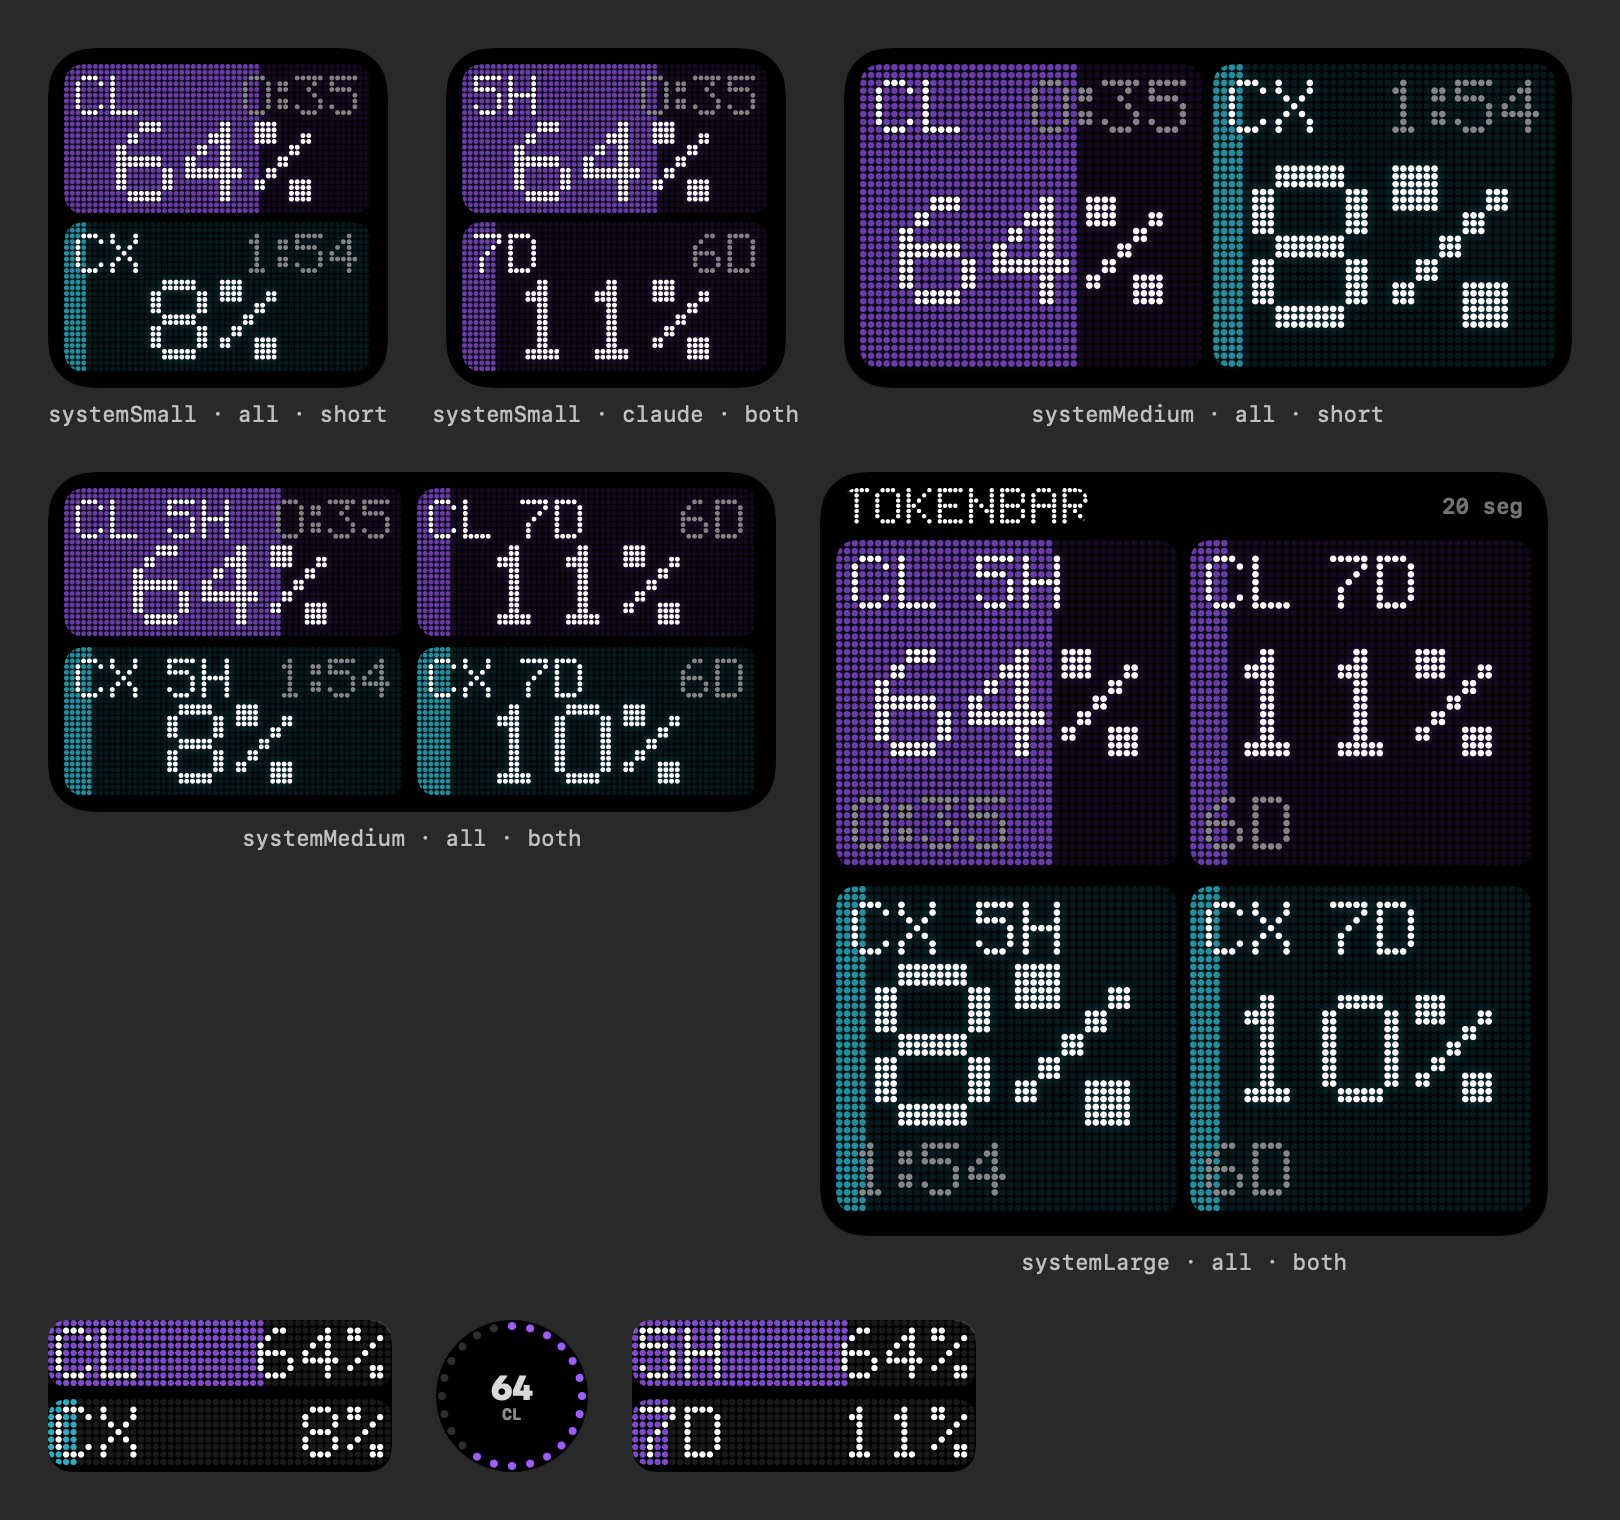
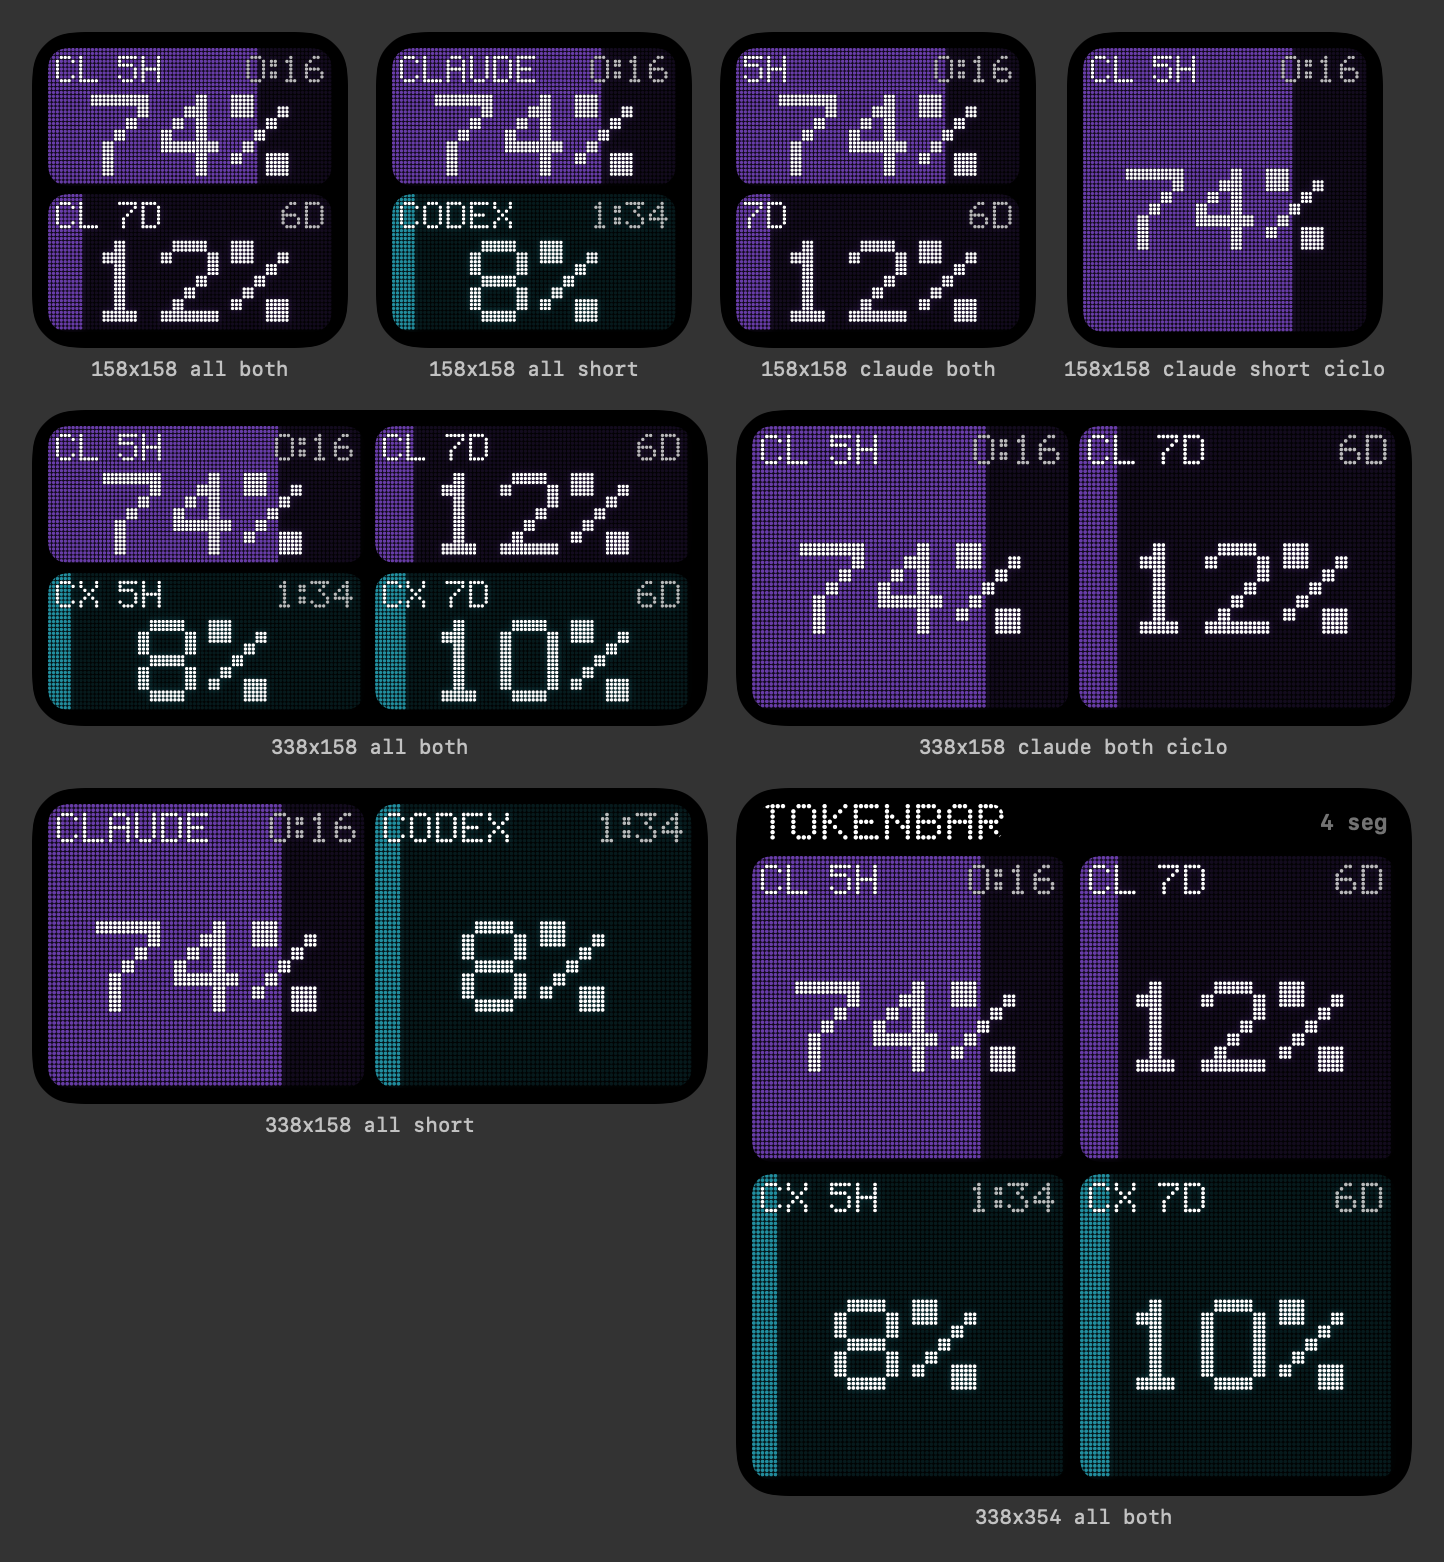
Widgets: grade fixa sem sobreposição (mesma escala em todos os painéis, testado com 100%); 'Uma por vez' troca ao tocar no widget

diff --git a/Shared/LEDPanel.swift b/Shared/LEDPanel.swift
@@ -8,9 +8,13 @@ struct LEDPanel: View {
     var providerID: String
     var now: Date
     var theme: Theme
-    /// Mínimo de colunas (cabe "CLAUDE" + folga); o ponto sai do espaço disponível.
+    /// Mantidos por compatibilidade com quem já chama assim.
     var minCols: Int = 44
     var maxScale: Int = 3
+    /// Escala do número; se nil, o painel escolhe sozinho. Widgets passam a mesma para todos os painéis.
+    var scale: Int? = nil
+    /// Título mais longo do widget: garante que título e tempo caibam em todos os painéis.
+    var longestTitle: String? = nil
 
     var body: some View {
         let p = window?.used(at: now) ?? 0
@@ -18,10 +22,12 @@ struct LEDPanel: View {
         GeometryReader { geo in
             let w = geo.size.width.isFinite ? geo.size.width : 0
             let h = geo.size.height.isFinite ? geo.size.height : 0
-            // Ponto pela altura (~26 linhas), mas nunca com menos colunas que o mínimo.
-            let dot = max(1, min(h / 26, w / CGFloat(minCols)))
-            let cols = max(minCols, Int(w / dot)), rows = max(12, Int(h / dot))
-            DotCanvas(bitmap: bitmap(p, cols: min(cols, 300), rows: min(rows, 200)), dot: dot,
+            let t = longestTitle ?? title
+            let k = scale ?? LEDPanel.bestScale(width: w, height: h, longestTitle: t, maxScale: maxScale)
+            let dot = LEDPanel.dot(width: w, height: h, k: k, longestTitle: t)
+            let rows = max(LEDPanel.rows(for: k), Int(h / dot))
+            let cols = max(10, Int(w / dot))
+            DotCanvas(bitmap: bitmap(p, k: k, cols: min(cols, 300), rows: min(rows, 200)), dot: dot,
                       textColor: theme.text.color, fieldColor: level.opacity(0.62), offColor: level.opacity(0.10),
                       round: theme.roundDots)
                 .shadow(color: level.opacity(0.3 * theme.glow), radius: 2 * theme.glow)
@@ -31,54 +37,42 @@ struct LEDPanel: View {
         .accessibilityLabel("\(title) \(UsageStyle.percent(p))")
     }
 
-    private func bitmap(_ p: Double, cols: Int, rows: Int) -> DotBitmap {
+    // Grade fixa: margem 2 · título 7 · vão 3 · número 7k · margem 2.
+    static func rows(for k: Int) -> Int { 2 + 7 + 3 + 7 * k + 2 }
+
+    /// Colunas que a escala k precisa: "100%" e "TÍTULO  0:00" inteiros.
+    static func colsNeeded(k: Int, longestTitle: String) -> Int {
+        max(DotFont.width("100%", scale: k) + 4, 2 + DotFont.width(longestTitle) + 6 + DotFont.width("0:00") + 2)
+    }
+
+    /// O ponto cabe na altura (grade da escala k) e na largura (colunas necessárias).
+    static func dot(width w: CGFloat, height h: CGFloat, k: Int, longestTitle: String) -> CGFloat {
+        max(1, min(h / CGFloat(rows(for: k)), w / CGFloat(colsNeeded(k: k, longestTitle: longestTitle))))
+    }
+
+    /// Maior escala cujo ponto ainda fica visível (o número cresce o quanto der sem apertar nada).
+    static func bestScale(width w: CGFloat, height h: CGFloat, longestTitle: String, maxScale: Int = 3) -> Int {
+        guard w > 0, h > 0 else { return 1 }
+        for k in stride(from: maxScale, through: 2, by: -1)
+        where dot(width: w, height: h, k: k, longestTitle: longestTitle) >= 1.9 { return k }
+        return 1
+    }
+
+    private func bitmap(_ p: Double, k: Int, cols: Int, rows: Int) -> DotBitmap {
         var b = DotBitmap(cols: cols, rows: rows)
         let filled = Int((min(max(p, 0), 100) / 100 * Double(cols)).rounded())
         for x in 0..<filled { for y in 0..<rows { b.set(x, y, 1) } }
 
-        guard window != nil else {
-            b.draw(title, x: 2, y: 2)
-            b.drawCentered("--", y: max(10, rows / 2 - 3))
-            return b
-        }
-        let t = timeText
-        let big = "\(min(Int(p.rounded()), 999))%"
-        func w(_ s: String, _ k: Int = 1) -> Int { DotFont.width(s, scale: k) }
-        func best(top: Int, bottom: Int) -> Int {
-            var k = maxScale
-            while k > 0 && (w(big, k) > cols - 4 || top + 7 * k > bottom) { k -= 1 }
-            return k
-        }
-        func drawBig(_ k: Int, top: Int, bottom: Int) {
-            let y = top + max(0, (bottom - top - 7 * k) / 2)
-            // Sempre centrada no painel: as duas faixas ficam alinhadas.
-            let x = (cols - w(big, k)) / 2
-            b.draw(big, x: x, y: y, scale: k)
-        }
-
-        // 1) Título e tempo na linha de cima; % embaixo, o maior possível.
-        for name in [title, LEDPanel.abbreviate(title)] where 2 + w(name) + 6 + w(t) <= cols - 2 {
-            let k = best(top: 10, bottom: rows - 1)
-            if k >= 2 || (k == 1 && name == LEDPanel.abbreviate(title)) {
-                b.draw(name, x: 2, y: 2)
-                b.draw(t, x: cols - 2 - w(t), y: 2, value: 3)
-                drawBig(k, top: 10, bottom: rows - 1)
-                return b
-            }
-        }
-        // 2) Título em cima, tempo embaixo, % no meio.
-        let k2 = best(top: 10, bottom: rows - 10)
-        if k2 >= 1 {
-            b.draw(title, x: 2, y: 2)
-            b.draw(t, x: 2, y: rows - 9, value: 3)
-            drawBig(k2, top: 10, bottom: rows - 10)
-            return b
-        }
-        // 3) Apertado: nome curto e % na mesma linha, tempo embaixo se couber.
-        let name = LEDPanel.abbreviate(title)
+        // Título à esquerda; tempo (mais apagado) à direita na mesma linha, se couber.
+        let name = 2 + DotFont.width(title) + 6 + DotFont.width(timeText) + 2 <= cols ? title : LEDPanel.abbreviate(title)
         b.draw(name, x: 2, y: 2)
-        b.draw(big, x: cols - 2 - w(big), y: 2)
-        if rows >= 18 { b.draw(t, x: 2, y: 11, value: 3) }
+        if window != nil, 2 + DotFont.width(name) + 6 + DotFont.width(timeText) + 2 <= cols {
+            b.draw(timeText, x: cols - 2 - DotFont.width(timeText), y: 2, value: 3)
+        }
+        let big = window == nil ? "--" : "\(min(Int(p.rounded()), 999))%"
+        // Número centrado no espaço abaixo do título.
+        let y = 12 + max(0, (rows - 2 - 12 - 7 * k) / 2)
+        b.draw(big, x: (cols - DotFont.width(big, scale: k)) / 2, y: y, scale: k)
         return b
     }
 
@@ -106,7 +100,7 @@ enum WidgetItems {
     }
 
     /// agent: "all" | "claude" | "codex"; window: "short" | "long" | "both".
-    static func make(_ s: UsageSnapshot, agent: String, window: String) -> [Item] {
+    static func make(_ s: UsageSnapshot, agent: String, window: String, showName: Bool = false) -> [Item] {
         let ids = agent == "all" ? Prefs.allProviders : [agent]
         var out: [Item] = []
         for id in ids {
@@ -117,7 +111,8 @@ enum WidgetItems {
             for w in picked {
                 // Uma IA só: o título é a janela. Várias: o nome da IA (+ janela se mostrar as duas).
                 let title: String
-                if ids.count == 1 { title = w?.label.uppercased() ?? UsageStyle.shortName(id) }
+                if ids.count == 1 && showName { title = (id == "codex" ? "CX " : "CL ") + (w?.label.uppercased() ?? "") }
+                else if ids.count == 1 { title = w?.label.uppercased() ?? UsageStyle.shortName(id) }
                 else if window == "both" { title = (id == "codex" ? "CX " : "CL ") + (w?.label.uppercased() ?? "") }
                 else { title = UsageStyle.shortName(id) }
                 out.append(Item(key: "\(id)-\(w?.id ?? "none")", providerID: id, window: w, title: title))

diff --git a/Widget/WidgetViews.swift b/Widget/WidgetViews.swift
@@ -10,9 +10,10 @@ struct WidgetContent: View {
     var now: Date
     var theme: Theme
     var paired: Bool
+    var cycling = false
 
     var body: some View {
-        let items = WidgetItems.make(snapshot, agent: agent, window: window)
+        let items = WidgetItems.make(snapshot, agent: agent, window: window, showName: cycling)
         if snapshot.providers.isEmpty {
             EmptyUsage(paired: paired)
         } else {
@@ -44,12 +45,14 @@ struct WidgetContent: View {
         }
     }
 
-    /// Painéis em grade; cada um recebe a sua fatia exata da área.
+    /// Painéis em grade; cada um recebe a sua fatia exata da área e todos usam a mesma escala.
     private func grid(_ items: [WidgetItems.Item], columns: Int, cols: Int, gap: CGFloat) -> some View {
         GeometryReader { geo in
             let rows = Int((Double(items.count) / Double(columns)).rounded(.up))
             let w = (geo.size.width - gap * CGFloat(columns - 1)) / CGFloat(columns)
             let h = (geo.size.height - gap * CGFloat(max(rows - 1, 0))) / CGFloat(max(rows, 1))
+            let longest = items.map(\.title).max(by: { DotFont.width($0) < DotFont.width($1) }) ?? ""
+            let k = LEDPanel.bestScale(width: w, height: h, longestTitle: longest)
             VStack(spacing: gap) {
                 ForEach(0..<rows, id: \.self) { r in
                     HStack(spacing: gap) {
@@ -58,7 +61,7 @@ struct WidgetContent: View {
                             if i < items.count {
                                 let it = items[i]
                                 LEDPanel(window: it.window, title: it.title, providerID: it.providerID,
-                                         now: now, theme: theme)
+                                         now: now, theme: theme, scale: k, longestTitle: longest)
                                     .frame(width: w, height: h)
                                     .clipShape(RoundedRectangle(cornerRadius: 10, style: .continuous))
                             } else {

diff --git a/Widget/TokenBarWidgets.swift b/Widget/TokenBarWidgets.swift
@@ -122,24 +122,25 @@ struct EntryView: View {
     var entry: UsageEntry
 
     var body: some View {
-        WidgetContent(family: family, snapshot: entry.snapshot, agent: entry.agent, window: entry.window,
-                      now: entry.date, theme: Prefs.theme, paired: entry.paired)
-            .padding(isSystem ? 8 : 0)
-            .overlay(alignment: .topTrailing) { if entry.cycling && isSystem { nextKey } }
+        cycleWrap(
+            WidgetContent(family: family, snapshot: entry.snapshot, agent: entry.agent, window: entry.window,
+                          now: entry.date, theme: Prefs.theme, paired: entry.paired, cycling: entry.cycling)
+                .padding(isSystem ? 8 : 0)
+        )
             .containerBackground(for: .widget) { Color.black }
             .widgetURL(URL(string: "\(TB.urlScheme)://open"))
     }
 
-    /// Tecla de LED "›" no canto: troca para a próxima IA sem abrir o app.
-    @ViewBuilder private var nextKey: some View {
+    /// "Uma por vez": o widget inteiro é o botão — tocar em qualquer lugar passa para a próxima IA.
+    @ViewBuilder private func cycleWrap<V: View>(_ v: V) -> some View {
         #if os(watchOS)
-        EmptyView()
+        v
         #else
-        Button(intent: NextAgentIntent()) {
-            DotKeyFace(text: ">", on: true, color: Prefs.theme.base(entry.agent), dot: 1.8, round: Prefs.theme.roundDots)
+        if entry.cycling && isSystem {
+            Button(intent: NextAgentIntent()) { v }.buttonStyle(.plain)
+        } else {
+            v
         }
-        .buttonStyle(.plain)
-        .padding(6)
         #endif
     }
 

diff --git a/Shared/DotMatrix.swift b/Shared/DotMatrix.swift
@@ -120,7 +120,7 @@ struct DotCanvas: View {
                 for x in 0..<bitmap.cols {
                     let v = bitmap.get(x, y)
                     let rect = CGRect(x: CGFloat(x) * dot, y: CGFloat(y) * dot, width: size, height: size)
-                    let color: Color = v == 2 ? textColor : v == 3 ? textColor.opacity(0.5) : v == 1 ? fieldColor : offColor
+                    let color: Color = v == 2 ? textColor : v == 3 ? textColor.opacity(0.72) : v == 1 ? fieldColor : offColor
                     let path = round ? Path(ellipseIn: rect) : Path(roundedRect: rect, cornerRadius: size * 0.22)
                     ctx.fill(path, with: .color(color))
                 }

diff --git a/README.md b/README.md
@@ -23,7 +23,7 @@ num display de LED no Mac, no iPhone e no Apple Watch.
 - **Personalização:** cor de cada IA, do texto e do tempo, pontos redondos ou quadrados, brilho e vermelho perto do limite.
 - **O fundo enche conforme o gasto:** 23% acende 23% do display.
 - **Avisos:** notificação (no iPhone e espelhada no relógio) ao passar de **80%** e **95%** de uma janela, e quando ela **reseta**. O iPhone atualiza em segundo plano para avisar mesmo com o app fechado (o iOS decide a frequência, em geral a cada 15–60 min).
-- **Widgets:** um widget só, configurável (segure → Editar): escolha **Todas / Claude / Codex / Uma por vez** e **5h / 7d / As duas**. Em "Uma por vez", a tecla **›** no widget troca de IA sem abrir o app (iPhone e Mac). Também há widgets prontos na galeria — **Todas · 5h e 7d**, **Todas · 5h**, **Claude · 5h e 7d**, **Codex · 5h e 7d** — para empilhar no iPhone (arraste um widget sobre o outro) e deslizar entre eles. Pequeno, médio e grande no Mac e no iPhone; tela bloqueada e mostrador do relógio (retangular, redondo, canto e linha). No relógio, as combinações aparecem prontas na lista do mostrador.
+- **Widgets:** um widget só, configurável (segure → Editar): escolha **Todas / Claude / Codex / Uma por vez** e **5h / 7d / As duas**. Em "Uma por vez", tocar no widget troca de IA sem abrir o app (iPhone e Mac). Também há widgets prontos na galeria — **Todas · 5h e 7d**, **Todas · 5h**, **Claude · 5h e 7d**, **Codex · 5h e 7d** — para empilhar no iPhone (arraste um widget sobre o outro) e deslizar entre eles. Pequeno, médio e grande no Mac e no iPhone; tela bloqueada e mostrador do relógio (retangular, redondo, canto e linha). No relógio, as combinações aparecem prontas na lista do mostrador.
 
 <p align="center">
 <img src="docs/iphone-5h-7d.jpg" width="49%" alt="5H e 7D juntos">
